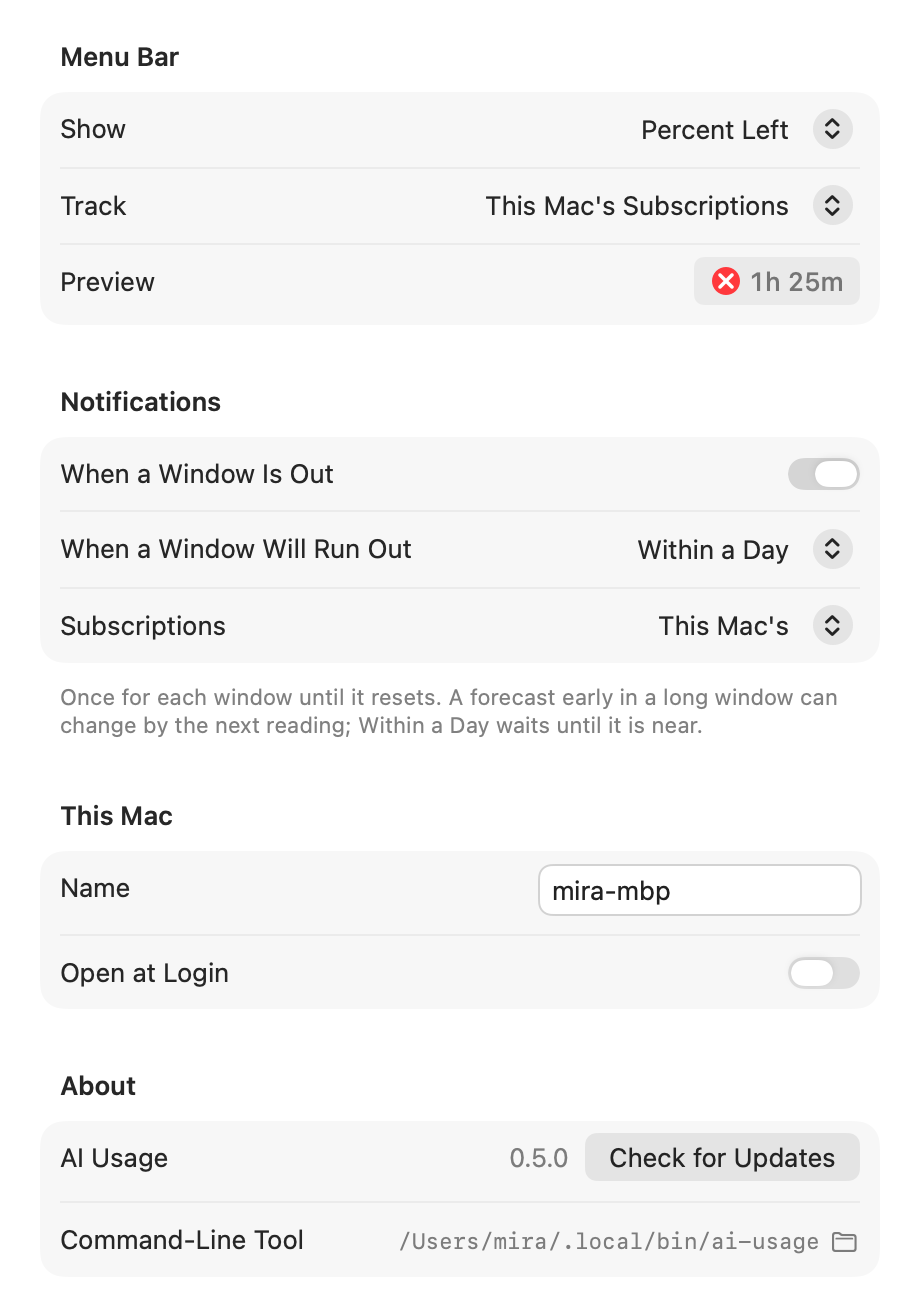
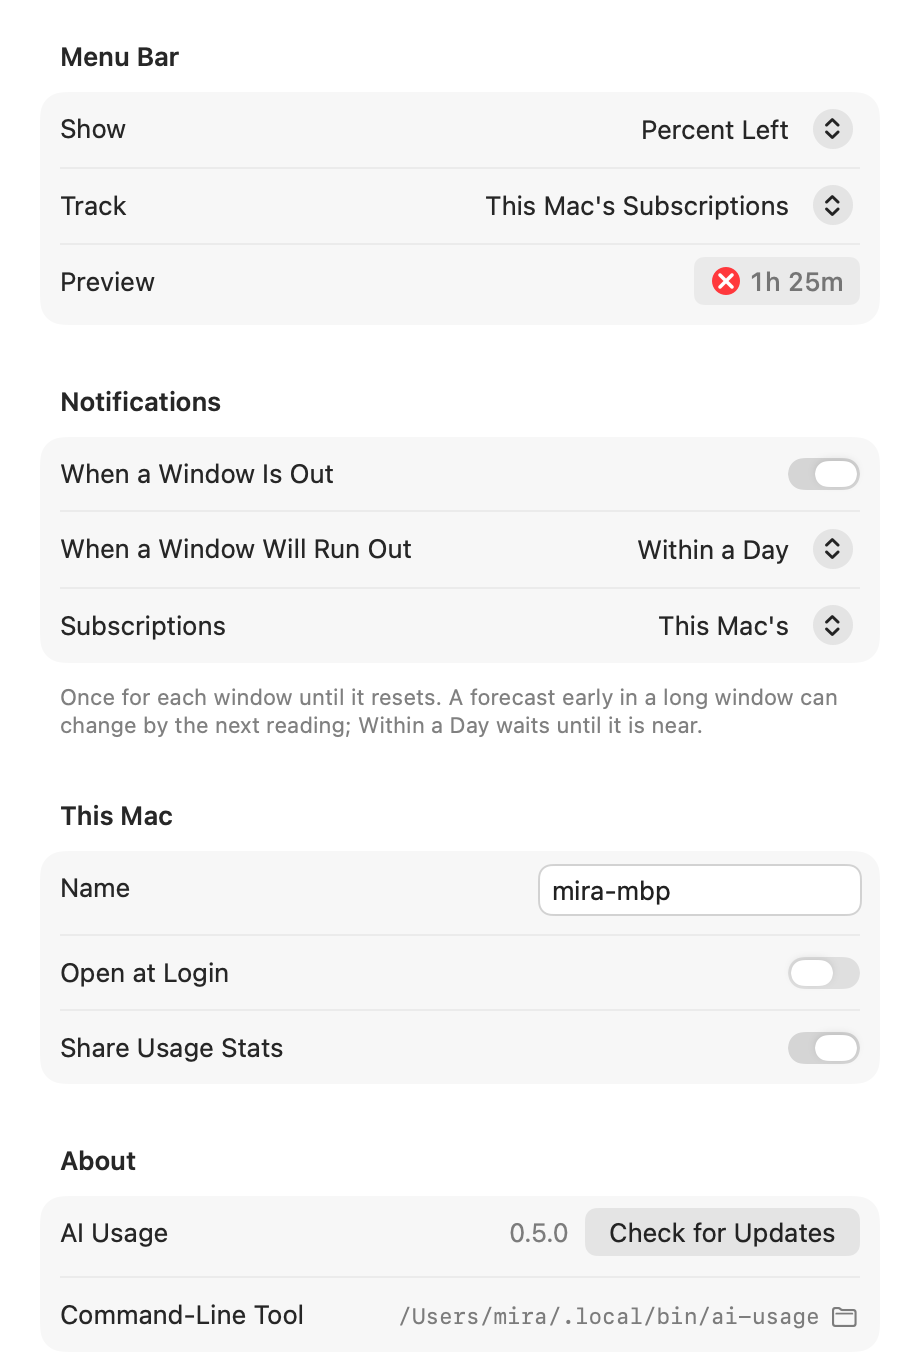
Have the menu bar app show the usage stats notice once in the popover, with OK and Turn Off, put Share Usage Stats in Settings, mark its own runs of ai-usage so its report every minute records nothing, and record only its start and the opening of the popover, the Team window, and Settings, with the 

diff --git a/macos/Sources/AIUsageBar/Store.swift b/macos/Sources/AIUsageBar/Store.swift
@@ -57,6 +57,10 @@ final class Store: ObservableObject {
     /// The time the popover measures ages from: the report's own in a demo.
     @Published private(set) var now = Date()
     @Published private(set) var cliPath: String?
+    /// Whether usage stats go to ai-usage's author, with the notice while
+    /// it is due; nil until read, in a demo, and with a release of ai-usage
+    /// before them.
+    @Published private(set) var usageStats: UsageStats?
 
     // What the popover shows, kept while the app runs.
     /// Picking a tab, or anything that opens one, closes the alerts list.
@@ -86,6 +90,8 @@ final class Store: ObservableObject {
 
     let demo: Bool
     private var fetchedAt = Date.distantPast
+    /// The popover's opening was recorded; it opens again once it closed.
+    private var popoverRecorded = false
     private var loading = false
     private var again = false
     private var timer: Timer?
@@ -102,6 +108,14 @@ final class Store: ObservableObject {
         // The path the launch agent names under Homebrew, or where the
         // installer puts ai-usage in the report's user's home.
         cliPath = report.collector.update.homebrew ? "/opt/homebrew/opt/ai-usage/bin/ai-usage" : home + "/.local/bin/ai-usage"
+        usageStats = UsageStats(enabled: true, reason: "default")
+    }
+
+    /// A demo store whose popover shows the usage stats notice, for its
+    /// picture.
+    convenience init(demo report: Report, usageNotice: String) {
+        self.init(demo: report)
+        usageStats = UsageStats(enabled: true, reason: "default", notice: usageNotice)
     }
 
     /// A store without a report, for pictures of the popover's empty states.
@@ -134,6 +148,7 @@ final class Store: ObservableObject {
 
     /// Closes what the popover opened, as it closes.
     func popoverClosed() {
+        popoverRecorded = false
         expanded = nil
         deviceFilter = nil
         showAllProjects = false
@@ -155,6 +170,10 @@ final class Store: ObservableObject {
     func start() {
         guard !demo else { return }
         Task { await refresh() }
+        Task {
+            await loadUsageStats()
+            record(.started)
+        }
         timer = Timer.scheduledTimer(withTimeInterval: 60, repeats: true) { _ in
             Task { @MainActor in await Store.shared.refresh() }
         }
@@ -167,6 +186,14 @@ final class Store: ObservableObject {
         now = Date()
         if Date().timeIntervalSince(fetchedAt) > 10 {
             Task { await refresh() }
+        }
+        if !popoverRecorded {
+            popoverRecorded = true
+            record(.popover)
+        }
+        // A notice someone saw in a terminal meanwhile goes from here too.
+        if usageStats?.notice != nil {
+            Task { await loadUsageStats() }
         }
     }
 
@@ -251,6 +278,33 @@ final class Store: ObservableObject {
     func openInTerminal(_ args: [String], named name: String) {
         guard !demo, let cli = locate() else { return }
         Terminal.open(cli.terminalScript(args), named: name)
+    }
+
+    /// Reads whether usage stats are shared, and the notice while it is due.
+    func loadUsageStats() async {
+        guard !demo, let cli = locate() else { return }
+        usageStats = (try? await cli.run(["telemetry", "status", "--json"], timeout: 10)).flatMap { try? UsageStats.decode($0) }
+    }
+
+    /// Settings' Share Usage Stats, and the notice's Turn Off. On also
+    /// counts as having seen the notice.
+    func shareUsageStats(_ on: Bool) async {
+        _ = try? await command(["telemetry", on ? "on" : "off"], changes: false)
+        await loadUsageStats()
+    }
+
+    /// The notice's OK: the app showed it, so the app's next events go.
+    func usageNoticeSeen() async {
+        _ = try? await command(["telemetry", "notice", "--seen"], changes: false)
+        await loadUsageStats()
+    }
+
+    /// Records one of the app's own events, with ai-usage, which sends it
+    /// in the background. Nothing runs while usage stats are off, before
+    /// the notice is seen, or with a release of ai-usage before them.
+    func record(_ e: UsageStats.Event) {
+        guard !demo, let s = usageStats, s.enabled, s.notice == nil, let cli = locate() else { return }
+        Task { _ = try? await cli.run(UsageStats.record(e), timeout: 10) }
     }
 
     private func locate() -> CLI? {

diff --git a/macos/Sources/AIUsageKit/UsageStats.swift b/macos/Sources/AIUsageKit/UsageStats.swift
@@ -1,0 +1,69 @@
+import Foundation
+
+/// Whether usage stats go to ai-usage's author, as `ai-usage telemetry
+/// status --json` says, with the notice while it is due. The app shows the
+/// notice once and has the switch in Settings; ai-usage keeps the state and
+/// sends the events.
+public struct UsageStats: Decodable, Equatable, Sendable {
+    public var enabled: Bool
+    /// `AI_USAGE_TELEMETRY=debug`: events are printed, not sent.
+    public var debug: Bool
+    /// The rule that decided: `default`, `state` (the switch), `env`,
+    /// `do-not-track`, `ci`, `test`, `dev-version`, or `no-endpoint`.
+    public var reason: String
+    /// The notice, while nobody has seen it and usage stats are on; until
+    /// then nothing is sent.
+    public var notice: String?
+
+    public init(enabled: Bool, debug: Bool = false, reason: String, notice: String? = nil) {
+        self.enabled = enabled
+        self.debug = debug
+        self.reason = reason
+        self.notice = notice
+    }
+
+    public static func decode(_ data: Data) throws -> UsageStats {
+        try JSONDecoder().decode(UsageStats.self, from: data)
+    }
+
+    /// Whether the switch decides. The environment or the build can decide
+    /// instead, and the switch then only shows what they decided.
+    public var switchable: Bool { reason == "default" || reason == "state" }
+
+    /// Why the switch does not decide, in a few words; nil when it does.
+    public var decidedBy: String? {
+        switch reason {
+        case "default", "state": return nil
+        case "do-not-track": return "DO_NOT_TRACK is set"
+        case "env": return "AI_USAGE_TELEMETRY is set"
+        case "ci": return "ai-usage runs in CI"
+        case "test": return "ai-usage runs in tests"
+        case "dev-version": return "a development build of ai-usage sends none"
+        case "no-endpoint": return "this build of ai-usage sends none"
+        default: return reason
+        }
+    }
+
+    /// The notice as Markdown, for a Text: its commands as code, and its
+    /// address as a link.
+    public static func markdown(_ notice: String) -> String {
+        notice.replacingOccurrences(of: "https://usage.sergeybaus.com", with: "[usage.sergeybaus.com](https://usage.sergeybaus.com)")
+    }
+
+    /// The app's own events, by the names `ai-usage telemetry record` takes.
+    public enum Event: String, Sendable {
+        case started = "app_started"
+        case popover
+        case teamWindow = "team window"
+        case settings
+    }
+
+    /// The command that records an event.
+    public static func record(_ e: Event) -> [String] {
+        e == .started ? ["telemetry", "record", e.rawValue] : ["telemetry", "record", "feature_used", e.rawValue]
+    }
+
+    /// The environment variable that marks the app's runs of ai-usage, such
+    /// as its report every minute, which record nothing themselves.
+    public static let callerKey = "AI_USAGE_CALLER"
+}

diff --git a/macos/Sources/AIUsageChecks/main.swift b/macos/Sources/AIUsageChecks/main.swift
@@ -1079,5 +1079,24 @@ equal("terminal script without the agent", CLI(location: CLILocation(executable:
         .terminalScript(["report", "--devices"]).split(separator: "\n").map(String.init).dropFirst().map { $0.hasPrefix("export PATH=\"$PATH\":'") ? "path" : $0 },
       ["path", "exec '/opt/ai usage/ai-usage' 'report' '--devices'"])
 
+// Usage stats. The app's runs of ai-usage say they are the app's, so its
+// report every minute records nothing; a command in Terminal is a
+// person's.
+equal("app's runs marked", cli.environment([:])[UsageStats.callerKey], "app")
+check("Terminal's runs not marked", !quoted.terminalScript(["report"]).contains(UsageStats.callerKey))
+// What `ai-usage telemetry status --json` prints, the notice while it is
+// due.
+let due = try UsageStats.decode(Data("""
+    {"enabled":true,"debug":false,"reason":"default","stateFile":"/state/ai-usage/telemetry.json","endpoint":"https://usage.sergeybaus.com/i/v0/e/","id":null,"notice":"ai-usage shares usage stats with its author. Turn it off with `ai-usage telemetry off` or `DO_NOT_TRACK=1`. Details: https://usage.sergeybaus.com"}
+    """.utf8))
+check("notice due", due.enabled && due.switchable && due.decidedBy == nil && due.notice?.hasPrefix("ai-usage shares usage stats") == true)
+check("notice links its page", UsageStats.markdown(due.notice ?? "").hasSuffix("Details: [usage.sergeybaus.com](https://usage.sergeybaus.com)"))
+let switchedOff = try UsageStats.decode(Data(#"{"enabled":false,"debug":false,"reason":"state","id":null,"notice":null}"#.utf8))
+check("switched off", !switchedOff.enabled && switchedOff.switchable && switchedOff.notice == nil)
+let dnt = try UsageStats.decode(Data(#"{"enabled":false,"debug":false,"reason":"do-not-track","id":null,"notice":null}"#.utf8))
+check("DO_NOT_TRACK decides", !dnt.switchable && dnt.decidedBy == "DO_NOT_TRACK is set")
+equal("record start", UsageStats.record(.started), ["telemetry", "record", "app_started"])
+equal("record team window", UsageStats.record(.teamWindow), ["telemetry", "record", "feature_used", "team window"])
+
 print(failures == 0 ? "all checks passed" : "\(failures) checks failed")
 exit(failures == 0 ? 0 : 1)

diff --git a/macos/Sources/AIUsageBar/Settings.swift b/macos/Sources/AIUsageBar/Settings.swift
@@ -50,6 +50,7 @@ enum SettingsWindow {
 
     /// Opens the window, on a pane when one is named.
     static func show(pane: Pane? = nil) {
+        Store.shared.record(.settings)
         if window == nil {
             let tabs = NSTabViewController()
             tabs.tabStyle = .toolbar
@@ -300,6 +301,15 @@ struct GeneralSettings: View {
                     }
                     login = LoginItem.status
                 }))
+                if let stats = store.usageStats {
+                    // ai-usage's switch: what it shares with its author, by
+                    // the notice's words.
+                    Toggle("Share Usage Stats", isOn: Binding(get: { stats.enabled }, set: { on in
+                        Task { await store.shareUsageStats(on) }
+                    }))
+                    .disabled(!stats.switchable)
+                    .help("How often AI Usage runs, which features are used, errors, version and OS, with a random install ID; never your files, accounts, or projects. See usage.sergeybaus.com")
+                }
             } header: {
                 Text("This Mac")
             } footer: {
@@ -312,6 +322,8 @@ struct GeneralSettings: View {
                             .buttonStyle(.borderless)
                             .font(.subheadline)
                     }
+                } else if let stats = store.usageStats, let why = stats.decidedBy {
+                    Footnote("Usage stats are \(stats.enabled ? "on" : "off"): \(why).")
                 }
             }
             Section("About") {
@@ -383,10 +395,11 @@ struct GeneralSettings: View {
                 }
             }
         }
-        .pane(height: 647)
+        .pane(height: 685)
         .onAppear {
             login = LoginItem.status
             notifier.refreshStatus()
+            Task { await store.loadUsageStats() }
             Task {
                 if let v = try? await store.command(["version"], changes: false), !v.isEmpty {
                     cliVersion = v

diff --git a/macos/Sources/AIUsageBar/Popover.swift b/macos/Sources/AIUsageBar/Popover.swift
@@ -16,6 +16,9 @@ struct PopoverView: View {
     var body: some View {
         VStack(spacing: 0) {
             Header().measure(ChromeHeight.self)
+            if let notice = store.usageStats?.notice {
+                UsageStatsNotice(text: notice).measure(ChromeHeight.self)
+            }
             if let report = store.report {
                 let chips = Chip.chips(report, refreshFailed: store.refreshError != nil)
                 if !chips.isEmpty {
@@ -73,6 +76,32 @@ struct PopoverView: View {
     private func isPopover(_ n: Notification) -> Bool {
         guard let w = store.popoverWindow else { return true }
         return n.object as? NSWindow === w
+    }
+}
+
+/// The usage stats notice, once, under the header until OK or Turn Off:
+/// what ai-usage shares with its author. Until then it sends nothing.
+private struct UsageStatsNotice: View {
+    @EnvironmentObject private var store: Store
+    let text: String
+
+    var body: some View {
+        VStack(alignment: .leading, spacing: 8) {
+            Text(LocalizedStringKey(UsageStats.markdown(text)))
+                .font(.callout)
+                .foregroundStyle(.secondary)
+                .fixedSize(horizontal: false, vertical: true)
+            HStack(spacing: 8) {
+                Spacer()
+                Button("Turn Off") { Task { await store.shareUsageStats(false) } }
+                Button("OK") { Task { await store.usageNoticeSeen() } }
+            }
+            .controlSize(.small)
+        }
+        .padding(10)
+        .background(RoundedRectangle(cornerRadius: 8).fill(Color.primary.opacity(0.06)))
+        .padding(.horizontal, Metrics.inset)
+        .padding(.bottom, 10)
     }
 }
 

diff --git a/macos/Sources/AIUsageBar/Render.swift b/macos/Sources/AIUsageBar/Render.swift
@@ -78,6 +78,8 @@ enum Renderer {
                 states.append(("projects-expanded", { $0.tab = .projects }, { $0.expanded = "proj:\(p.path)" }))
             }
             let calm = try calmStore(data)
+            // The usage stats notice as ai-usage words it, once, over Limits.
+            let noticed = Store(demo: report, usageNotice: "ai-usage shares usage stats with its author: how often it runs, which features are used, errors, version and OS, tied to a random install ID. It never sends your files, arguments or account names. Nothing has been sent yet. Turn it off with `ai-usage telemetry off` or `DO_NOT_TRACK=1`. Details: https://usage.sergeybaus.com")
             let stale = try staleStore(data)
             let empty: [(String, Store.Phase)] = [
                 ("loading", .loading),
@@ -106,6 +108,7 @@ enum Renderer {
                 if let calm {
                     try write(popover(calm), appearance, to: png("popover-calm"))
                 }
+                try write(popover(noticed), appearance, to: png("popover-usage-notice"))
                 if let stale, let a = stale.report?.attention.first(where: { $0.kind == .over && $0.window == nil }),
                    let p = a.provider, let l = a.account {
                     stale.popoverClosed()

diff --git a/macos/Sources/AIUsageKit/CLI.swift b/macos/Sources/AIUsageKit/CLI.swift
@@ -76,7 +76,9 @@ public struct CLI: Sendable {
     }
 
     /// The child's environment: this one, with the LaunchAgent's PATH, else
-    /// this PATH and the standard folders, and the collector's folder.
+    /// this PATH and the standard folders, and the collector's folder. It
+    /// marks the run as the app's, so that its reports every minute record
+    /// no usage stats; the app records its own events.
     public func environment(_ base: [String: String] = ProcessInfo.processInfo.environment) -> [String: String] {
         var env = base
         let home = FileManager.default.homeDirectoryForCurrentUser
@@ -84,6 +86,7 @@ public struct CLI: Sendable {
         if let h = location.stateHome {
             env["AI_USAGE_HOME"] = h
         }
+        env[UsageStats.callerKey] = "app"
         return env
     }
 

diff --git a/macos/Sources/AIUsageBar/Team.swift b/macos/Sources/AIUsageBar/Team.swift
@@ -53,6 +53,7 @@ enum TeamWindow {
 
     /// Opens the window, on a segment when one is named.
     static func show(_ segment: TeamOptions.Segment? = nil) {
+        Store.shared.record(.teamWindow)
         if let segment {
             options.segment = segment
         }

diff --git a/docs/demo/README.md b/docs/demo/README.md
@@ -54,7 +54,7 @@ TZ=Europe/Berlin ai-usage report --from docs/demo/solo.json --plain --width 110
 | `app-team.png`, `app-team-light.png` | the app's Team window on Usage: every device against every subscription over 7 days, shaded by tokens |
 | `app-team-status.png`, `app-team-status-light.png` | the app's Team window on Status: each device's release, last report, tools, tokens in each period, and note |
 | `app-team-cost.png`, `app-team-cost-light.png` | the app's Team window on Cost: what each device used of each subscription in dollars, what nobody used, and each price |
-| `app-settings.png`, `app-settings-light.png` | the app's Settings on General: what the menu bar shows and tracks, notifications, this Mac's name and opening at login, and About: the app's version and where the command-line tool is |
+| `app-settings.png`, `app-settings-light.png` | the app's Settings on General: what the menu bar shows and tracks, notifications, this Mac's name, opening at login, and Share Usage Stats, and About: the app's version and where the command-line tool is |
 | `app-settings-cost.png`, `app-settings-cost-light.png` | the app's Settings on Cost: this Mac's questions on top, then each subscription with its plan, price, Used, next charge, and state, and the cost notifications |
 | `social/app-tabs.png` | the app's three tabs side by side on a backdrop, for posts |
 | `social/architecture.png` | how a team's numbers travel, drawn from `scripts/demo/diagram.html` |
@@ -80,7 +80,7 @@ The script regenerates the reports and builds `ai-usage`. It shows each picture'
 The menu bar app draws its own pictures with `AIUsageBar --render REPORT OUTDIR`, which writes them in light and dark as PNGs into `OUTDIR` and exits. It reads the report instead of running `ai-usage`, and takes its `generated_at` as the time now, so the ages and countdowns match the terminal pictures. On macOS, `shots.ts` runs it on `team.json` and copies the pictures above into place; `bun scripts/demo/shots.ts app` makes only those. For each look, `light` or `dark`, the renderer writes:
 
 - `popover-TAB-LOOK.png`, each tab as tall as the popover shows it, and `popover-TAB-full-LOOK.png`, the whole tab. TAB is `limits`, `usage`, `usage-subscriptions` (Usage by subscription), and `projects`; a report of one device has no `usage-subscriptions`
-- `popover-STATE-LOOK.png`, the popover after a click: `limits-expanded`, `usage-expanded`, and `projects-expanded`, a row opened; `usage-filtered`, `usage-filtered-silent`, and `usage-filtered-not-updating`, Usage after a click on the chip of devices with errors, not reporting, or not updating, from Usage by subscription; `alerts`, the alerts after a click on the verdict's link; `limits-expanded-over` and `limits-expanded-idle`, Limits as tall as it is with the details of the first subscription that runs out or is idle open; `limits-unread`, Limits as tall as it is with the line of the subscriptions not read open; `limits-stale`, Limits with a reading of the subscription that runs out 36 hours old, so its row says it ran out; and `calm`, the popover with nothing out or running out
+- `popover-STATE-LOOK.png`, the popover after a click: `limits-expanded`, `usage-expanded`, and `projects-expanded`, a row opened; `usage-filtered`, `usage-filtered-silent`, and `usage-filtered-not-updating`, Usage after a click on the chip of devices with errors, not reporting, or not updating, from Usage by subscription; `alerts`, the alerts after a click on the verdict's link; `limits-expanded-over` and `limits-expanded-idle`, Limits as tall as it is with the details of the first subscription that runs out or is idle open; `limits-unread`, Limits as tall as it is with the line of the subscriptions not read open; `limits-stale`, Limits with a reading of the subscription that runs out 36 hours old, so its row says it ran out; `calm`, the popover with nothing out or running out; and `usage-notice`, Limits under the usage stats notice the app shows once
 - `popover-STATE-LOOK.png`, the popover with no report to show: `loading`, `not-installed`, `not-collected`, `mismatch` (a report of another schema), and `failed`
 - `team-usage-LOOK.png`, `team-share-LOOK.png`, `team-status-LOOK.png`, and `team-cost-LOOK.png`, the Team window on Usage in tokens and in shares, on Status, and on Cost, which only a report with a cost has; a report of one device has none
 - `settings-PANE-LOOK.png`, each Settings pane: `general`, `accounts`, `team`, and `cost`
